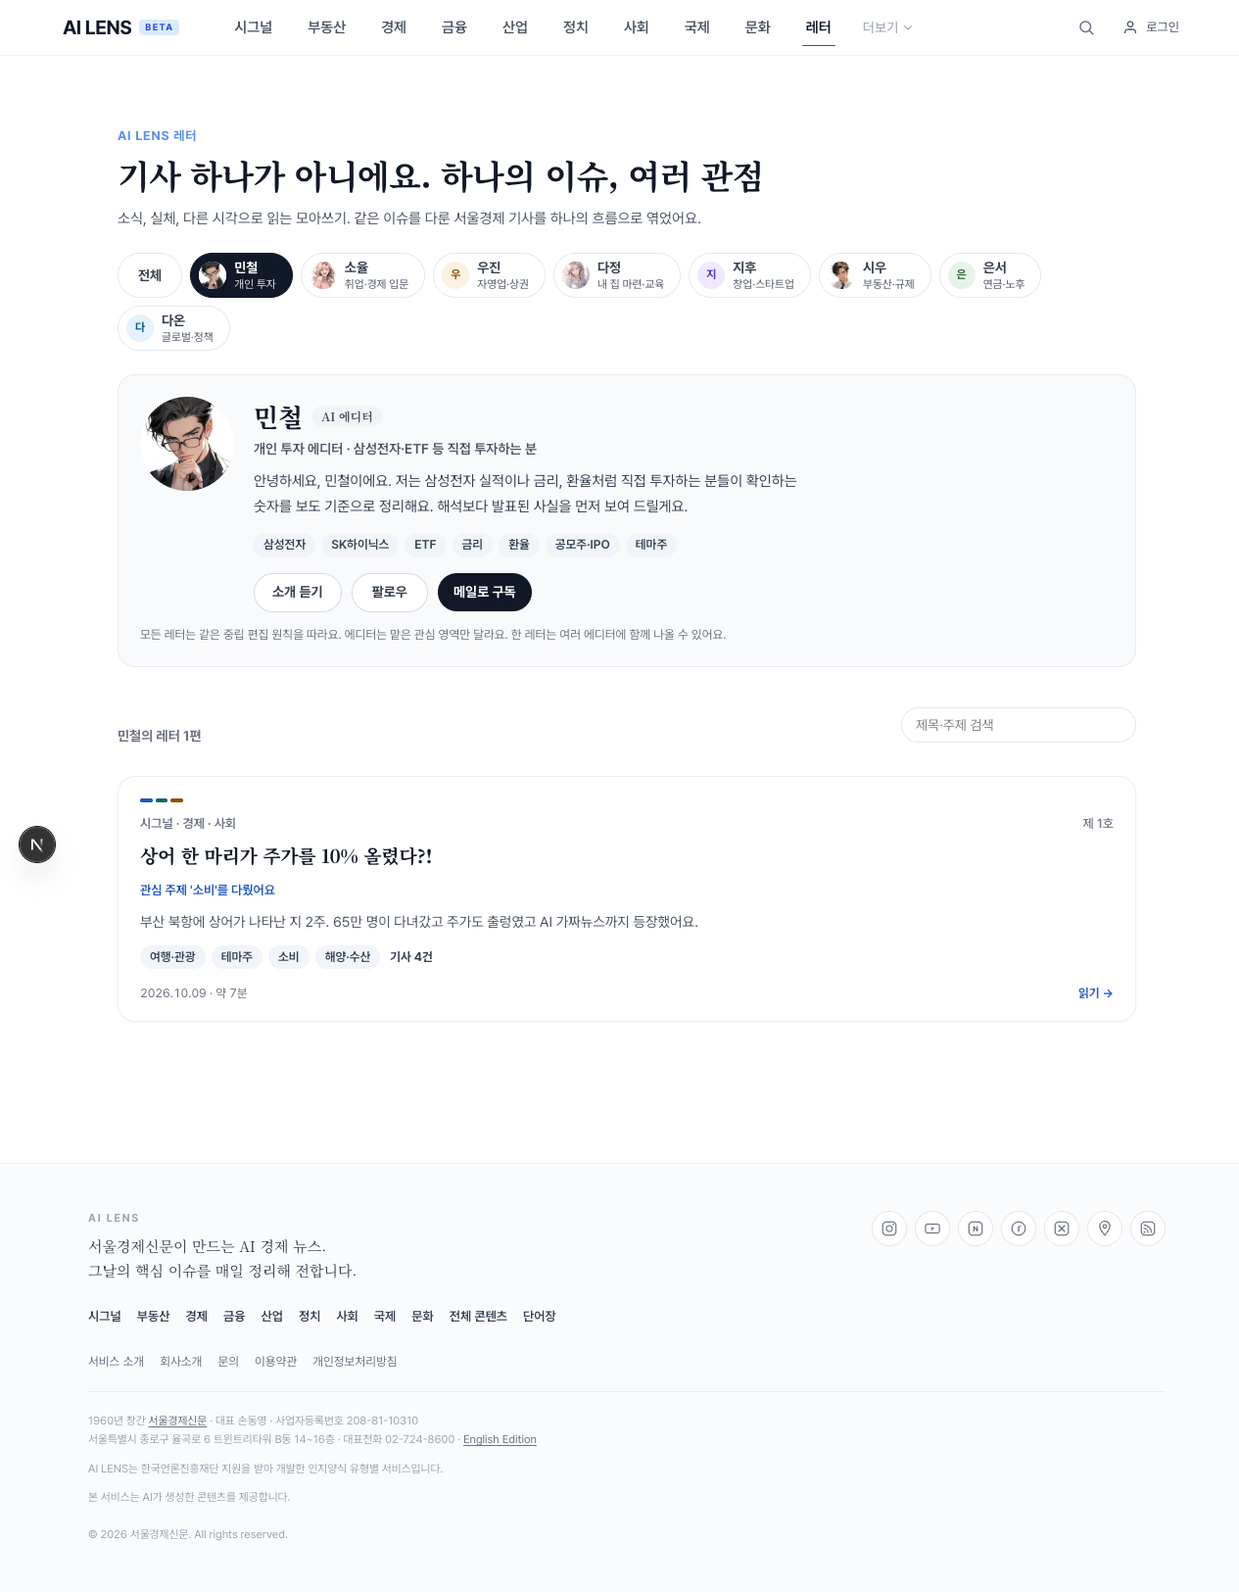
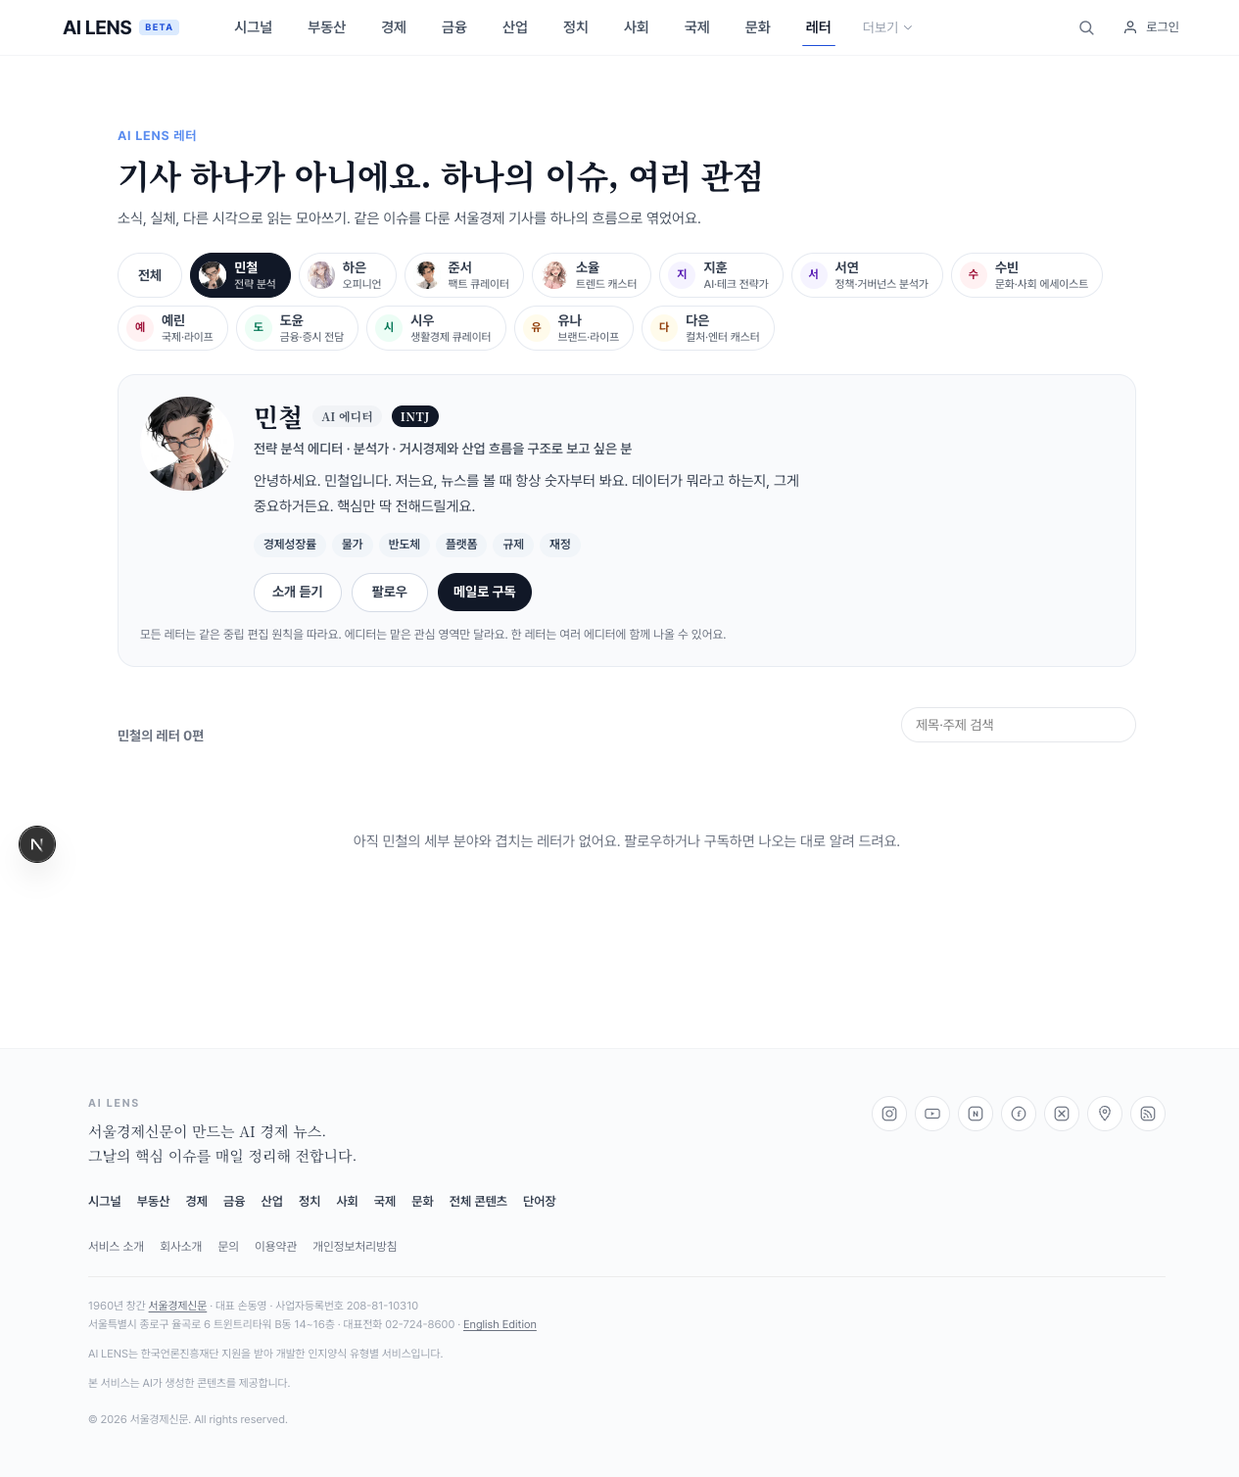
feat(letter): 이전 에디터 12명(이름·MBTI·담당 분야·이미지) 그대로 적용, 이미지 보유 에디터 우선 배치

diff --git a/service/frontend/src/features/letter/data/editors.ts b/service/frontend/src/features/letter/data/editors.ts
@@ -1,24 +1,30 @@
-// 레터 에디터(목업, 2026-10-10). 에디터는 "분류 담당"이 아니라 "누구의 관심 영역을 맡는가"(독자 페르소나 × 세부 분야)로 나눈다.
-// 말투·입장은 모두 같다 — 모든 레터는 같은 중립 편집 원칙(주관·유도·권유 금지)을 따른다. 에디터는 AI 에디터이며 카드·프로필에 그렇게 표시한다.
-// 한 레터는 여러 에디터에 속할 수 있다(레터의 주제가 에디터의 세부 분야와 겹치면). 독자는 에디터를 여러 명 팔로우한다.
+// 레터 에디터(목업, 2026-10-10). 이전 서비스(MBTI 에디터)의 이름·MBTI 그룹·담당 분야·이미지·목소리를 그대로 이어 쓴다 — 출처: legacy/dev_v1/service/frontend/src/app/editors/[id]/editorsData.ts.
+// 이미지(public/editors)가 있는 4명(민철 INTJ·하은 INFP·준서 ISTJ·소율 ESFP)을 앞에 두고, 나머지 8명은 이미지 생성 전까지 이니셜 아바타를 쓴다.
+// 소개 음성(옛 기록: ElevenLabs eleven_multilingual_v2) voiceId — 민철 RU7aSi6lT4uQBXMLgDxK(TeddyNote), 하은 AW5wrnG1jVizOYY7R1Oo(JiYoung), 준서 5XgfKMHL4qnyg2mabE5t(Deck), 소율 QPFsEL6IBxlT15xfiD6C(Hana Lee).
+// 에디터는 "누구의 관심 영역을 맡는가"로 나뉘고, 레터 본문은 모두 같은 중립 편집 원칙(주관·유도·권유 금지)을 따른다. 에디터는 AI 에디터이며 화면에 그렇게 표시한다.
+// 한 레터는 주제가 에디터의 담당 분야와 겹치면 여러 에디터에 속한다. 독자는 에디터를 여러 명 팔로우한다.
 import type { InterestItem } from './interestApi';
 import type { IssueLetter } from './letterTypes';
 
 export interface EditorTopic {
-  /** 주제 사전 slug. soon=true 면 사전에 아직 없는 주제(표시만 하고 관심 저장에서는 뺀다). */
+  /** 주제 사전 slug. */
   slug: string;
   name: string;
-  soon?: boolean;
 }
 
 export interface LetterEditor {
   id: string;
   name: string;
+  /** 옛 MBTI 4그룹(NT 전략·논리, NF 가치·의미, ST 실용·팩트, SF 공감·트렌드). */
+  group: 'NT' | 'NF' | 'ST' | 'SF';
+  /** 대표 4명만 MBTI가 정해져 있다. */
+  mbti?: 'INTJ' | 'INFP' | 'ISTJ' | 'ESFP';
+  nickname: string;
   /** 역할명(독자가 이 에디터를 찾는 이유). */
   role: string;
   /** "이런 분께" 한 줄. */
   forWhom: string;
-  /** 자기소개(화면에 보이고 음성으로도 재생). 말투는 모든 에디터가 같다 — 중립 원칙. */
+  /** 자기소개(화면에 보이고 음성으로도 재생). */
   intro: string;
   /** 프로필 이미지(public 경로). 없으면 이니셜 아바타. */
   image?: string;
@@ -28,60 +34,96 @@ export interface LetterEditor {
 
 export const EDITORS: readonly LetterEditor[] = [
   {
-    id: 'mincheol', name: '민철', role: '개인 투자 에디터', forWhom: '삼성전자·ETF 등 직접 투자하는 분',
-    intro: '안녕하세요, 민철이에요. 저는 삼성전자 실적이나 금리, 환율처럼 직접 투자하는 분들이 확인하는 숫자를 보도 기준으로 정리해요. 해석보다 발표된 사실을 먼저 보여 드릴게요.',
+    id: 'mincheol', name: '민철', group: 'NT', mbti: 'INTJ', nickname: '분석가',
+    role: '전략 분석 에디터', forWhom: '거시경제와 산업 흐름을 구조로 보고 싶은 분',
+    intro: '안녕하세요. 민철입니다. 저는요, 뉴스를 볼 때 항상 숫자부터 봐요. 데이터가 뭐라고 하는지, 그게 중요하거든요. 핵심만 딱 전해드릴게요.',
     image: '/editors/intj.webp',
-    topics: [{ slug: 'samsung-electronics', name: '삼성전자' }, { slug: 'sk-hynix', name: 'SK하이닉스' }, { slug: 'etf', name: 'ETF' }, { slug: 'rates', name: '금리' }, { slug: 'fx', name: '환율' }, { slug: 'ipo', name: '공모주·IPO' }, { slug: 'theme-stock', name: '테마주' }],
-    tone: { bg: '#e8f0ff', fg: '#1f56c0' },
+    topics: [{ slug: 'growth', name: '경제성장률' }, { slug: 'inflation', name: '물가' }, { slug: 'semiconductor', name: '반도체' }, { slug: 'platform', name: '플랫폼' }, { slug: 'regulation', name: '규제' }, { slug: 'fiscal', name: '재정' }],
+    tone: { bg: '#f5f3ff', fg: '#5b21b6' },
   },
   {
-    id: 'soyul', name: '소율', role: '취업·경제 입문 에디터', forWhom: '경제를 처음 공부하거나 취업을 준비하는 분',
-    intro: '안녕하세요, 소율이에요. 경제 뉴스가 처음이거나 취업을 준비하는 분들을 위해 어려운 용어와 기업 소식을 쉽게 풀어요. 모르는 말이 나오면 먼저 뜻부터 짚을게요.',
-    image: '/editors/esfp.webp',
-    topics: [{ slug: 'consumption', name: '소비' }, { slug: 'employment', name: '고용' }, { slug: 'platform', name: '플랫폼' }, { slug: 'content', name: '콘텐츠' }, { slug: 'recruit', name: '대기업 채용', soon: true }, { slug: 'terms', name: '경제 용어', soon: true }],
-    tone: { bg: '#e5f5f2', fg: '#0b6b60' },
-  },
-  {
-    id: 'ujin', name: '우진', role: '자영업·상권 에디터', forWhom: '가게를 운영하거나 동네 상권을 보는 분',
-    intro: '안녕하세요, 우진이에요. 가게를 운영하는 분들이 마주하는 임대료와 상권, 최저임금 소식을 다뤄요. 제도가 바뀌면 무엇이 달라지는지 정리해 드려요.',
-    topics: [{ slug: 'rent', name: '임대료' }, { slug: 'commercial-district', name: '상권' }, { slug: 'gentrification', name: '젠트리피케이션' }, { slug: 'seongsu', name: '성수동' }, { slug: 'minimum-wage', name: '최저임금' }, { slug: 'food-service', name: '외식업' }, { slug: 'retail', name: '유통' }, { slug: 'neighborhood', name: '도시·동네' }],
-    tone: { bg: '#fdf1e2', fg: '#8f4f0a' },
-  },
-  {
-    id: 'dajeong', name: '다정', role: '내 집 마련·교육 에디터', forWhom: '전세·청약·대출과 교육비를 따지는 분',
-    intro: '안녕하세요, 다정이에요. 전세와 청약, 주택 대출, 교육과 육아 정책을 다뤄요. 제도가 바뀌는 시점과 기준을 먼저 보여 드릴게요.',
+    id: 'haeun', name: '하은', group: 'NF', mbti: 'INFP', nickname: '이야기꾼',
+    role: '오피니언 에디터', forWhom: '숫자 뒤의 사람과 사회의 변화가 궁금한 분',
+    intro: '안녕하세요, 하은이에요. 저는 뉴스 읽을 때, 그 뒤에 있는 사람들 이야기가 자꾸 눈에 들어오더라고요. 천천히, 같이 읽어봐요.',
     image: '/editors/infp.webp',
-    topics: [{ slug: 'jeonse', name: '전세' }, { slug: 'housing-subscription', name: '청약' }, { slug: 'loan', name: '대출' }, { slug: 'education', name: '교육' }, { slug: 'low-birth', name: '저출생' }, { slug: 'rates', name: '금리' }],
-    tone: { bg: '#fde8ee', fg: '#b4234f' },
+    topics: [{ slug: 'low-birth', name: '저출생' }, { slug: 'labor', name: '노동' }, { slug: 'education', name: '교육' }, { slug: 'aging', name: '고령화' }, { slug: 'neighborhood', name: '도시·동네' }, { slug: 'climate', name: '환경·기후' }],
+    tone: { bg: '#fff1f2', fg: '#9f1239' },
   },
   {
-    id: 'jihu', name: '지후', role: '창업·스타트업 에디터', forWhom: '창업하거나 투자 흐름을 추적하는 분',
-    intro: '안녕하세요, 지후예요. 벤처투자와 인공지능, 플랫폼 산업의 흐름을 따라가요. 시장 구조가 어떻게 바뀌는지 사례로 보여 드릴게요.',
-    topics: [{ slug: 'startup', name: '스타트업' }, { slug: 'venture-investment', name: '벤처투자' }, { slug: 'ai', name: '인공지능' }, { slug: 'platform', name: '플랫폼' }, { slug: 'semiconductor', name: '반도체' }, { slug: 'k-beauty', name: 'K뷰티' }, { slug: 'amorepacific', name: '아모레퍼시픽' }],
-    tone: { bg: '#efe9ff', fg: '#5b36c4' },
-  },
-  {
-    id: 'siu', name: '시우', role: '부동산·규제 에디터', forWhom: '금리와 규제 속에서 부동산을 살피는 분',
-    intro: '안녕하세요, 시우예요. 부동산 시세와 거래, 재건축, 규제 변화를 다뤄요. 금리와 정책이 시장에서 어떻게 확인됐는지 정리해요.',
+    id: 'junseo', name: '준서', group: 'ST', mbti: 'ISTJ', nickname: '실용주의자',
+    role: '팩트 큐레이터', forWhom: '금융·증시와 기업 소식을 핵심만 보고 싶은 분',
+    intro: '준서입니다. 저는 팩트만 전달해요. 언제, 어디서, 뭐가 있었는지. 그게 젤 중요하니까요.',
     image: '/editors/istj.webp',
-    topics: [{ slug: 'real-estate', name: '부동산 시장' }, { slug: 'redevelopment', name: '재건축·재개발' }, { slug: 'auction', name: '경매' }, { slug: 'regulation', name: '규제' }, { slug: 'tax', name: '세금' }, { slug: 'rates', name: '금리' }],
-    tone: { bg: '#fff1d6', fg: '#8a5a00' },
+    topics: [{ slug: 'kospi', name: '코스피' }, { slug: 'samsung-electronics', name: '삼성전자' }, { slug: 'sk-hynix', name: 'SK하이닉스' }, { slug: 'earnings', name: '기업 실적' }, { slug: 'rates', name: '금리' }, { slug: 'bank', name: '은행' }],
+    tone: { bg: '#ecfdf5', fg: '#047857' },
   },
   {
-    id: 'eunseo', name: '은서', role: '연금·노후 에디터', forWhom: '노후 현금흐름과 자산을 관리하는 분',
-    intro: '안녕하세요, 은서예요. 연금 개편과 배당, 보험, 고령화 정책을 다뤄요. 제도가 수령액과 세금에 닿는 부분을 숫자로 정리해 드려요.',
-    topics: [{ slug: 'pension', name: '연금' }, { slug: 'dividend', name: '배당' }, { slug: 'insurance', name: '보험' }, { slug: 'aging', name: '고령화' }, { slug: 'tax', name: '세금' }, { slug: 'medical', name: '의료비', soon: true }],
-    tone: { bg: '#e7f3e8', fg: '#2f6b35' },
+    id: 'soyul', name: '소율', group: 'SF', mbti: 'ESFP', nickname: '공감러',
+    role: '트렌드 캐스터', forWhom: '어려운 경제 뉴스를 가볍게 시작하고 싶은 분',
+    intro: '안녕! 소율이야. 경제뉴스 어렵지? 나도 처음엔 그랬어. 근데 쉽게 풀면 진짜 재밌거든. 같이 보자!',
+    image: '/editors/esfp.webp',
+    topics: [{ slug: 'consumption', name: '소비' }, { slug: 'platform', name: '플랫폼' }, { slug: 'content', name: '콘텐츠' }, { slug: 'travel', name: '여행·관광' }, { slug: 'theme-stock', name: '테마주' }, { slug: 'neighborhood', name: '도시·동네' }],
+    tone: { bg: '#fffbeb', fg: '#92400e' },
   },
   {
-    id: 'daon', name: '다온', role: '글로벌·정책 에디터', forWhom: '해외 소식과 통화·통상 정책을 따라가는 분',
-    intro: '안녕하세요, 다온이에요. 연준과 주요국 정책, 무역과 공급망 소식을 다뤄요. 어느 나라에서 무슨 결정이 나왔는지부터 짚을게요.',
-    topics: [{ slug: 'fed', name: '연준' }, { slug: 'us', name: '미국' }, { slug: 'china', name: '중국' }, { slug: 'india', name: '인도' }, { slug: 'philippines', name: '필리핀' }, { slug: 'trade', name: '무역·통상' }, { slug: 'tariff', name: '관세' }, { slug: 'global-rebalancing', name: '글로벌 리밸런싱' }],
-    tone: { bg: '#e3f2fb', fg: '#0d5f8f' },
+    id: 'jihoon', name: '지훈', group: 'NT', nickname: '미래탐험가',
+    role: 'AI·테크 전략가', forWhom: 'AI·반도체·빅테크의 다음 흐름을 따라가는 분',
+    intro: 'AI·반도체·빅테크 — 다음 10년의 변수를 짚습니다. 기술 사이클을 단기 변동보다 산업 전체 흐름으로 봅니다. 글로벌 빅테크와 한국 기술 기업 사이의 격차·기회를 정리합니다.',
+    topics: [{ slug: 'ai', name: '인공지능' }, { slug: 'semiconductor', name: '반도체' }, { slug: 'platform', name: '플랫폼' }, { slug: 'startup', name: '스타트업' }, { slug: 'venture-investment', name: '벤처투자' }],
+    tone: { bg: '#f5f3ff', fg: '#5b21b6' },
+  },
+  {
+    id: 'seoyeon', name: '서연', group: 'NT', nickname: '제도설계자',
+    role: '정책·거버넌스 분석가', forWhom: '정책과 규제가 시장에 닿는 경로가 궁금한 분',
+    intro: '제도가 시장을 어떻게 움직이는지 추적합니다. 정책 입안부터 시행, 시장 반응까지의 사이클을 분석합니다. 규제 변화가 산업 구도에 미치는 영향을 정리합니다.',
+    topics: [{ slug: 'regulation', name: '규제' }, { slug: 'national-assembly', name: '국회' }, { slug: 'tax', name: '세금' }, { slug: 'fiscal', name: '재정' }, { slug: 'diplomacy', name: '외교·안보' }],
+    tone: { bg: '#f5f3ff', fg: '#5b21b6' },
+  },
+  {
+    id: 'subin', name: '수빈', group: 'NF', nickname: '관찰자',
+    role: '문화·사회 에세이스트', forWhom: '세대와 문화, 가치관의 변화를 천천히 읽는 분',
+    intro: '오늘의 뉴스가 우리 삶에 닿는 결을 천천히 적습니다. 문화와 세대, 가치관의 변화를 에세이 형식으로 풉니다. 빠르지 않게, 깊이 있게.',
+    topics: [{ slug: 'content', name: '콘텐츠' }, { slug: 'neighborhood', name: '도시·동네' }, { slug: 'food-culture', name: '음식·맛집' }, { slug: 'travel', name: '여행·관광' }, { slug: 'low-birth', name: '저출생' }],
+    tone: { bg: '#fff1f2', fg: '#9f1239' },
+  },
+  {
+    id: 'yerin', name: '예린', group: 'NF', nickname: '세계여행자',
+    role: '국제·라이프 에디터', forWhom: '먼 나라의 소식을 사람의 이야기로 읽고 싶은 분',
+    intro: '먼 나라 이야기 속의 사람을 봅니다. 국제 뉴스에서 통계와 정책 너머의 일상을 전합니다. 한 도시의 풍경, 한 사람의 결을.',
+    topics: [{ slug: 'us', name: '미국' }, { slug: 'china', name: '중국' }, { slug: 'japan', name: '일본' }, { slug: 'india', name: '인도' }, { slug: 'philippines', name: '필리핀' }, { slug: 'europe', name: '유럽' }],
+    tone: { bg: '#fff1f2', fg: '#9f1239' },
+  },
+  {
+    id: 'doyun', name: '도윤', group: 'ST', nickname: '시장지킴이',
+    role: '금융·증시 전담', forWhom: '장 마감 숫자를 빠르게 확인하는 분',
+    intro: '오늘 장 마감, 핵심만 정리해서 드립니다. 시장 데이터를 빠르고 정확하게. 분석은 길지 않게, 숫자는 정확하게.',
+    topics: [{ slug: 'kospi', name: '코스피' }, { slug: 'etf', name: 'ETF' }, { slug: 'ipo', name: '공모주·IPO' }, { slug: 'fx', name: '환율' }, { slug: 'rates', name: '금리' }, { slug: 'dividend', name: '배당' }],
+    tone: { bg: '#ecfdf5', fg: '#047857' },
+  },
+  {
+    id: 'siu', name: '시우', group: 'ST', nickname: '체크리스트',
+    role: '생활경제 큐레이터', forWhom: '세금·부동산·소비 정보를 실생활에 쓰는 분',
+    intro: '오늘 알면 내일 돈 되는 정보만. 세금·부동산·소비 혜택 등 실생활에 바로 쓰는 정보를 체크리스트로 정리합니다.',
+    topics: [{ slug: 'real-estate', name: '부동산 시장' }, { slug: 'rent', name: '임대료' }, { slug: 'tax', name: '세금' }, { slug: 'consumption', name: '소비' }, { slug: 'jeonse', name: '전세' }, { slug: 'loan', name: '대출' }],
+    tone: { bg: '#ecfdf5', fg: '#047857' },
+  },
+  {
+    id: 'yuna', name: '유나', group: 'SF', nickname: '인플루언서',
+    role: '브랜드·라이프 에디터', forWhom: '브랜드와 소비 트렌드가 궁금한 분',
+    intro: '소비자 시각으로 브랜드와 마케팅을 봅니다. 무엇이 왜 잘 팔리는지, 사람의 언어로 풀어 전합니다.',
+    topics: [{ slug: 'k-beauty', name: 'K뷰티' }, { slug: 'amorepacific', name: '아모레퍼시픽' }, { slug: 'retail', name: '유통' }, { slug: 'food-service', name: '외식업' }, { slug: 'global-rebalancing', name: '글로벌 리밸런싱' }],
+    tone: { bg: '#fffbeb', fg: '#92400e' },
+  },
+  {
+    id: 'daeun', name: '다은', group: 'SF', nickname: '재미수집가',
+    role: '컬처·엔터 캐스터', forWhom: '엔터·콘텐츠·SNS 화제를 한눈에 보고 싶은 분',
+    intro: '오늘 사람들이 무엇을 보고 무엇을 말하는지. 엔터·콘텐츠·SNS 트렌드를 한눈에 정리합니다.',
+    topics: [{ slug: 'content', name: '콘텐츠' }, { slug: 'platform', name: '플랫폼' }, { slug: 'theme-stock', name: '테마주' }, { slug: 'travel', name: '여행·관광' }, { slug: 'hanok', name: '한옥' }],
+    tone: { bg: '#fffbeb', fg: '#92400e' },
   },
 ];
 
-/** 레터의 주제 이름이 에디터의 세부 분야와 하나라도 겹치는 에디터들(겹침이 많은 순). */
+/** 레터의 주제 이름이 에디터의 담당 분야와 하나라도 겹치는 에디터들(겹침이 많은 순). */
 export function editorsOfLetter(letter: Pick<IssueLetter, 'topics'>): LetterEditor[] {
   const names = new Set(letter.topics ?? []);
   return EDITORS.map((e) => ({ e, n: e.topics.filter((t) => names.has(t.name)).length }))
@@ -94,9 +136,9 @@ export function findEditor(id: string): LetterEditor | undefined {
   return EDITORS.find((e) => e.id === id);
 }
 
-/** 팔로우·구독 때 관심으로 저장되는 항목(주제 사전에 있는 주제만). */
+/** 팔로우·구독 때 관심으로 저장되는 항목(주제 사전의 주제). */
 export function editorInterests(e: LetterEditor): InterestItem[] {
-  return e.topics.filter((t) => !t.soon).map((t) => ({ type: 'topic' as const, key: t.slug }));
+  return e.topics.map((t) => ({ type: 'topic' as const, key: t.slug }));
 }
 
 export function unionInterests(editors: LetterEditor[]): InterestItem[] {

diff --git a/service/frontend/src/features/letter/components/letterStyles.ts b/service/frontend/src/features/letter/components/letterStyles.ts
@@ -8,7 +8,7 @@ export const LETTER_CSS = `
   .lt-sub { margin: 10px 0 0; font-size: 15px; line-height: 1.7; color: #4b5563; max-width: 640px; }
   .lt-etabs { display: flex; flex-wrap: wrap; gap: 8px; padding: 2px 0 10px; margin: 0 0 14px; }
   @media (max-width: 760px) { .lt-etabs { flex-wrap: nowrap; overflow-x: auto; scrollbar-width: thin; } }
-  .lt-etab { flex: none; display: inline-flex; align-items: center; gap: 8px; height: 46px; padding: 0 16px 0 8px; border: 1px solid #e5e9f0; border-radius: 999px; background: #fff; font: inherit; color: #374151; cursor: pointer; transition: background .15s, border-color .15s; }
+  .lt-etab { flex: none; display: inline-flex; align-items: center; gap: 8px; height: 46px; padding: 0 14px 0 8px; border: 1px solid #e5e9f0; border-radius: 999px; background: #fff; font: inherit; color: #374151; cursor: pointer; transition: background .15s, border-color .15s; }
   .lt-etab-all { padding: 0 20px; font-size: 14px; font-weight: 700; }
   .lt-etab:hover { background: #f4f6fa; }
   .lt-etab[aria-pressed='true'] { background: #111827; border-color: #111827; color: #fff; }
@@ -26,12 +26,12 @@ export const LETTER_CSS = `
   .lt-ed-follow[aria-pressed='true'] { background: #1f56c0; border-color: #1f56c0; color: #fff; }
   .lt-ed-follow:disabled { opacity: .5; cursor: default; }
   .lt-ed-follow-lg { height: 40px; padding: 0 20px; font-size: 14px; }
-  .lt-topic[data-soon='true'] { background: #fff; border: 1px dashed #cbd5e1; color: #64748b; }
   .lt-sec-inline { margin: 0; }
   .lt-ed-head { display: flex; align-items: flex-start; gap: 20px; padding: 20px 0 6px; flex-wrap: wrap; }
   .lt-ed-headtext { flex: 1 1 320px; min-width: 0; }
   .lt-ed-h1 { margin: 0; font-family: "Noto Serif KR", serif; font-size: 26px; font-weight: 700; color: #111827; display: flex; align-items: center; gap: 10px; }
   .lt-ed-badge { padding: 2px 9px; border-radius: 999px; background: #f1f3f6; color: #4b5563; font-family: inherit; font-size: 12px; font-weight: 700; }
+  .lt-ed-mbti { background: #111827; color: #fff; letter-spacing: .04em; }
   .lt-ed-sub { margin: 4px 0 0; font-size: 14px; font-weight: 600; color: #4b5563; }
   .lt-ed-bio { margin: 10px 0 0; max-width: 560px; font-size: 15px; line-height: 1.7; color: #374151; }
   .lt-ed-topics { display: flex; flex-wrap: wrap; gap: 6px; margin: 14px 0 0; padding: 0; list-style: none; }

diff --git a/service/frontend/src/features/letter/components/EditorIntro.tsx b/service/frontend/src/features/letter/components/EditorIntro.tsx
@@ -39,11 +39,11 @@ export function EditorIntro({ editor, following, onToggleFollow }: { editor: Let
       <div className="lt-ed-head">
         <EditorAvatar editor={editor} size={96} />
         <div className="lt-ed-headtext">
-          <h2 className="lt-ed-h1">{editor.name} <span className="lt-ed-badge">AI 에디터</span></h2>
-          <p className="lt-ed-sub">{editor.role} · {editor.forWhom}</p>
+          <h2 className="lt-ed-h1">{editor.name} <span className="lt-ed-badge">AI 에디터</span> <span className="lt-ed-badge lt-ed-mbti">{editor.mbti ?? editor.group}</span></h2>
+          <p className="lt-ed-sub">{editor.role} · {editor.nickname} · {editor.forWhom}</p>
           <p className="lt-ed-bio">{editor.intro}</p>
           <ul className="lt-ed-topics" aria-label="세부 분야">
-            {editor.topics.map((t) => <li key={t.slug} className="lt-topic" data-soon={t.soon ? 'true' : undefined}>{t.name}</li>)}
+            {editor.topics.map((t) => <li key={t.slug} className="lt-topic">{t.name}</li>)}
           </ul>
           <div className="lt-eintro-actions">
             {canSpeak && <button type="button" className="lt-eintro-voice" aria-pressed={playing} onClick={toggleVoice}>{playing ? '소개 멈추기' : '소개 듣기'}</button>}
